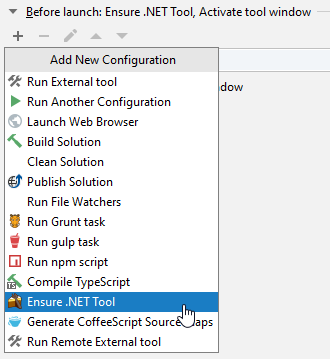
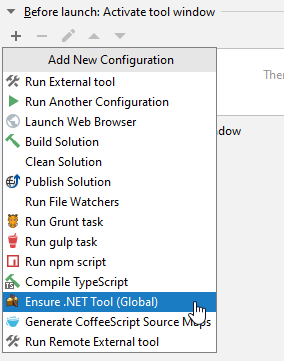
Renamed Cake .NET Tool to Cake .NET Tool (Global)
for consistency with other Cake IDE plugins

Changed region(s): [[0.0, 0.0, 0.9577, 1.0], [0.9014, 0.1838, 1.0, 0.2451]]

diff --git a/rider/src/main/kotlin/net/cakebuild/actions/CakeToolInstallAction.kt b/rider/src/main/kotlin/net/cakebuild/actions/CakeToolInstallAction.kt
@@ -21,7 +21,7 @@ abstract class CakeToolInstallAction : AnAction() {
             const val PROCESS_DONE: Double = 1.0
         }
         override fun actionPerformed(e: AnActionEvent) {
-            val task: Task.Backgroundable = object : Task.Backgroundable(e.project, "Ensuring Cake.Tool") {
+            val task: Task.Backgroundable = object : Task.Backgroundable(e.project, "Ensuring Cake.Tool (Global)") {
                 override fun run(indicator: ProgressIndicator) {
                     doInstallOrUpdate(e.project, indicator)
                 }
@@ -38,7 +38,7 @@ abstract class CakeToolInstallAction : AnAction() {
             }
             indicator.isIndeterminate = false
             indicator.fraction = PROCESS_START
-            indicator.text = "Checking Cake.Tool installed version"
+            indicator.text = "Checking Cake.Tool (Global) installed version"
             val installer = CakeNetToolInstaller()
             val installedVersion = installer.getInstalledCakeVersion()
             if (indicator.isCanceled) {
@@ -46,7 +46,7 @@ abstract class CakeToolInstallAction : AnAction() {
             }
             if (installedVersion == null) {
                 indicator.fraction = PROCESS_HALF
-                indicator.text = "Installing Cake.Tool"
+                indicator.text = "Installing Cake.Tool (Global)"
                 installCakeTool(installer, project)
                 indicator.fraction = PROCESS_DONE
                 return
@@ -64,7 +64,7 @@ abstract class CakeToolInstallAction : AnAction() {
                     ApplicationManager.getApplication().invokeLater {
                         CakeBalloonNotifications.notifyInformation(
                             project,
-                            "Cake.Tool already installed."
+                            "Cake.Tool (Global) already installed."
                         )
                     }
                 }
@@ -72,7 +72,7 @@ abstract class CakeToolInstallAction : AnAction() {
             }
 
             indicator.fraction = PROCESS_TWO_THIRDS
-            indicator.text = "Updating Cake.Tool version"
+            indicator.text = "Updating Cake.Tool (Global) version"
             updateCakeTool(installer, project)
             indicator.fraction = PROCESS_DONE
         }
@@ -87,12 +87,12 @@ abstract class CakeToolInstallAction : AnAction() {
                 if (success) {
                     CakeBalloonNotifications.notifyInformation(
                         project,
-                        "Cake.Tool successfully updated."
+                        "Cake.Tool (Global) successfully updated."
                     )
                 } else {
                     CakeBalloonNotifications.notifyError(
                         project,
-                        "update of Cake.Tool failed."
+                        "update of Cake.Tool (Global) failed."
                     )
                 }
             }
@@ -108,12 +108,12 @@ abstract class CakeToolInstallAction : AnAction() {
                 if (success) {
                     CakeBalloonNotifications.notifyInformation(
                         project,
-                        "Cake.Tool successfully installed."
+                        "Cake.Tool (Global) successfully installed."
                     )
                 } else {
                     CakeBalloonNotifications.notifyError(
                         project,
-                        "installation of Cake.Tool failed."
+                        "installation of Cake.Tool (Global) failed."
                     )
                 }
             }

diff --git a/rider/src/main/kotlin/net/cakebuild/beforeRunner/EnsureNetToolBeforeRunTaskProvider.kt b/rider/src/main/kotlin/net/cakebuild/beforeRunner/EnsureNetToolBeforeRunTaskProvider.kt
@@ -20,11 +20,11 @@ class EnsureNetToolBeforeRunTaskProvider :
 
     override fun getId() = providerId
 
-    override fun getName() = "Ensure .NET Tool"
+    override fun getName() = "Ensure .NET Tool (Global)"
 
     override fun getIcon() = CakeIcons.CakeAction
 
-    override fun getDescription(task: EnsureNetToolBeforeRunTask?) = "Ensure Cake .NET Tool is installed"
+    override fun getDescription(task: EnsureNetToolBeforeRunTask?) = "Ensure Cake .NET Tool (Global) is installed"
 
     override fun createTask(runConfiguration: RunConfiguration): EnsureNetToolBeforeRunTask? {
         if (runConfiguration is CakeConfiguration) {
@@ -50,12 +50,12 @@ class EnsureNetToolBeforeRunTaskProvider :
         if (ok) {
             CakeBalloonNotifications.notifyInformation(
                 env.project,
-                "Cake.Tool successfully installed."
+                "Cake.Tool (Global) successfully installed."
             )
         } else {
             CakeBalloonNotifications.notifyError(
                 env.project,
-                "Installation of Cake.Tool failed."
+                "Installation of Cake.Tool (Global) failed."
             )
         }
         return ok

diff --git a/README.md b/README.md
@@ -35,11 +35,11 @@ The full documentation of the latest release of Cake for Rider can be found at [
 
 ### Documentation changes in the upcoming release
 
-#### Cake .NET Tool install option
+#### Cake .NET Tool (Global) install option
 It is now possible to install (or update to) the current version of the Cake .NET Tool:
 ![Cake tool install menu](./images/tool-menu.png)
 
-#### Ensure Cake .NET Tool BeforeRunAction
+#### Ensure Cake .NET Tool (Global) BeforeRunAction
 It is now possible to ensure Cake .NET Tool is installed using a before run action from in a run configuration:
 
 ![Ensure Cake .NET Tool in before run actions](./images/beforeRunAction-ensureTool.png)
